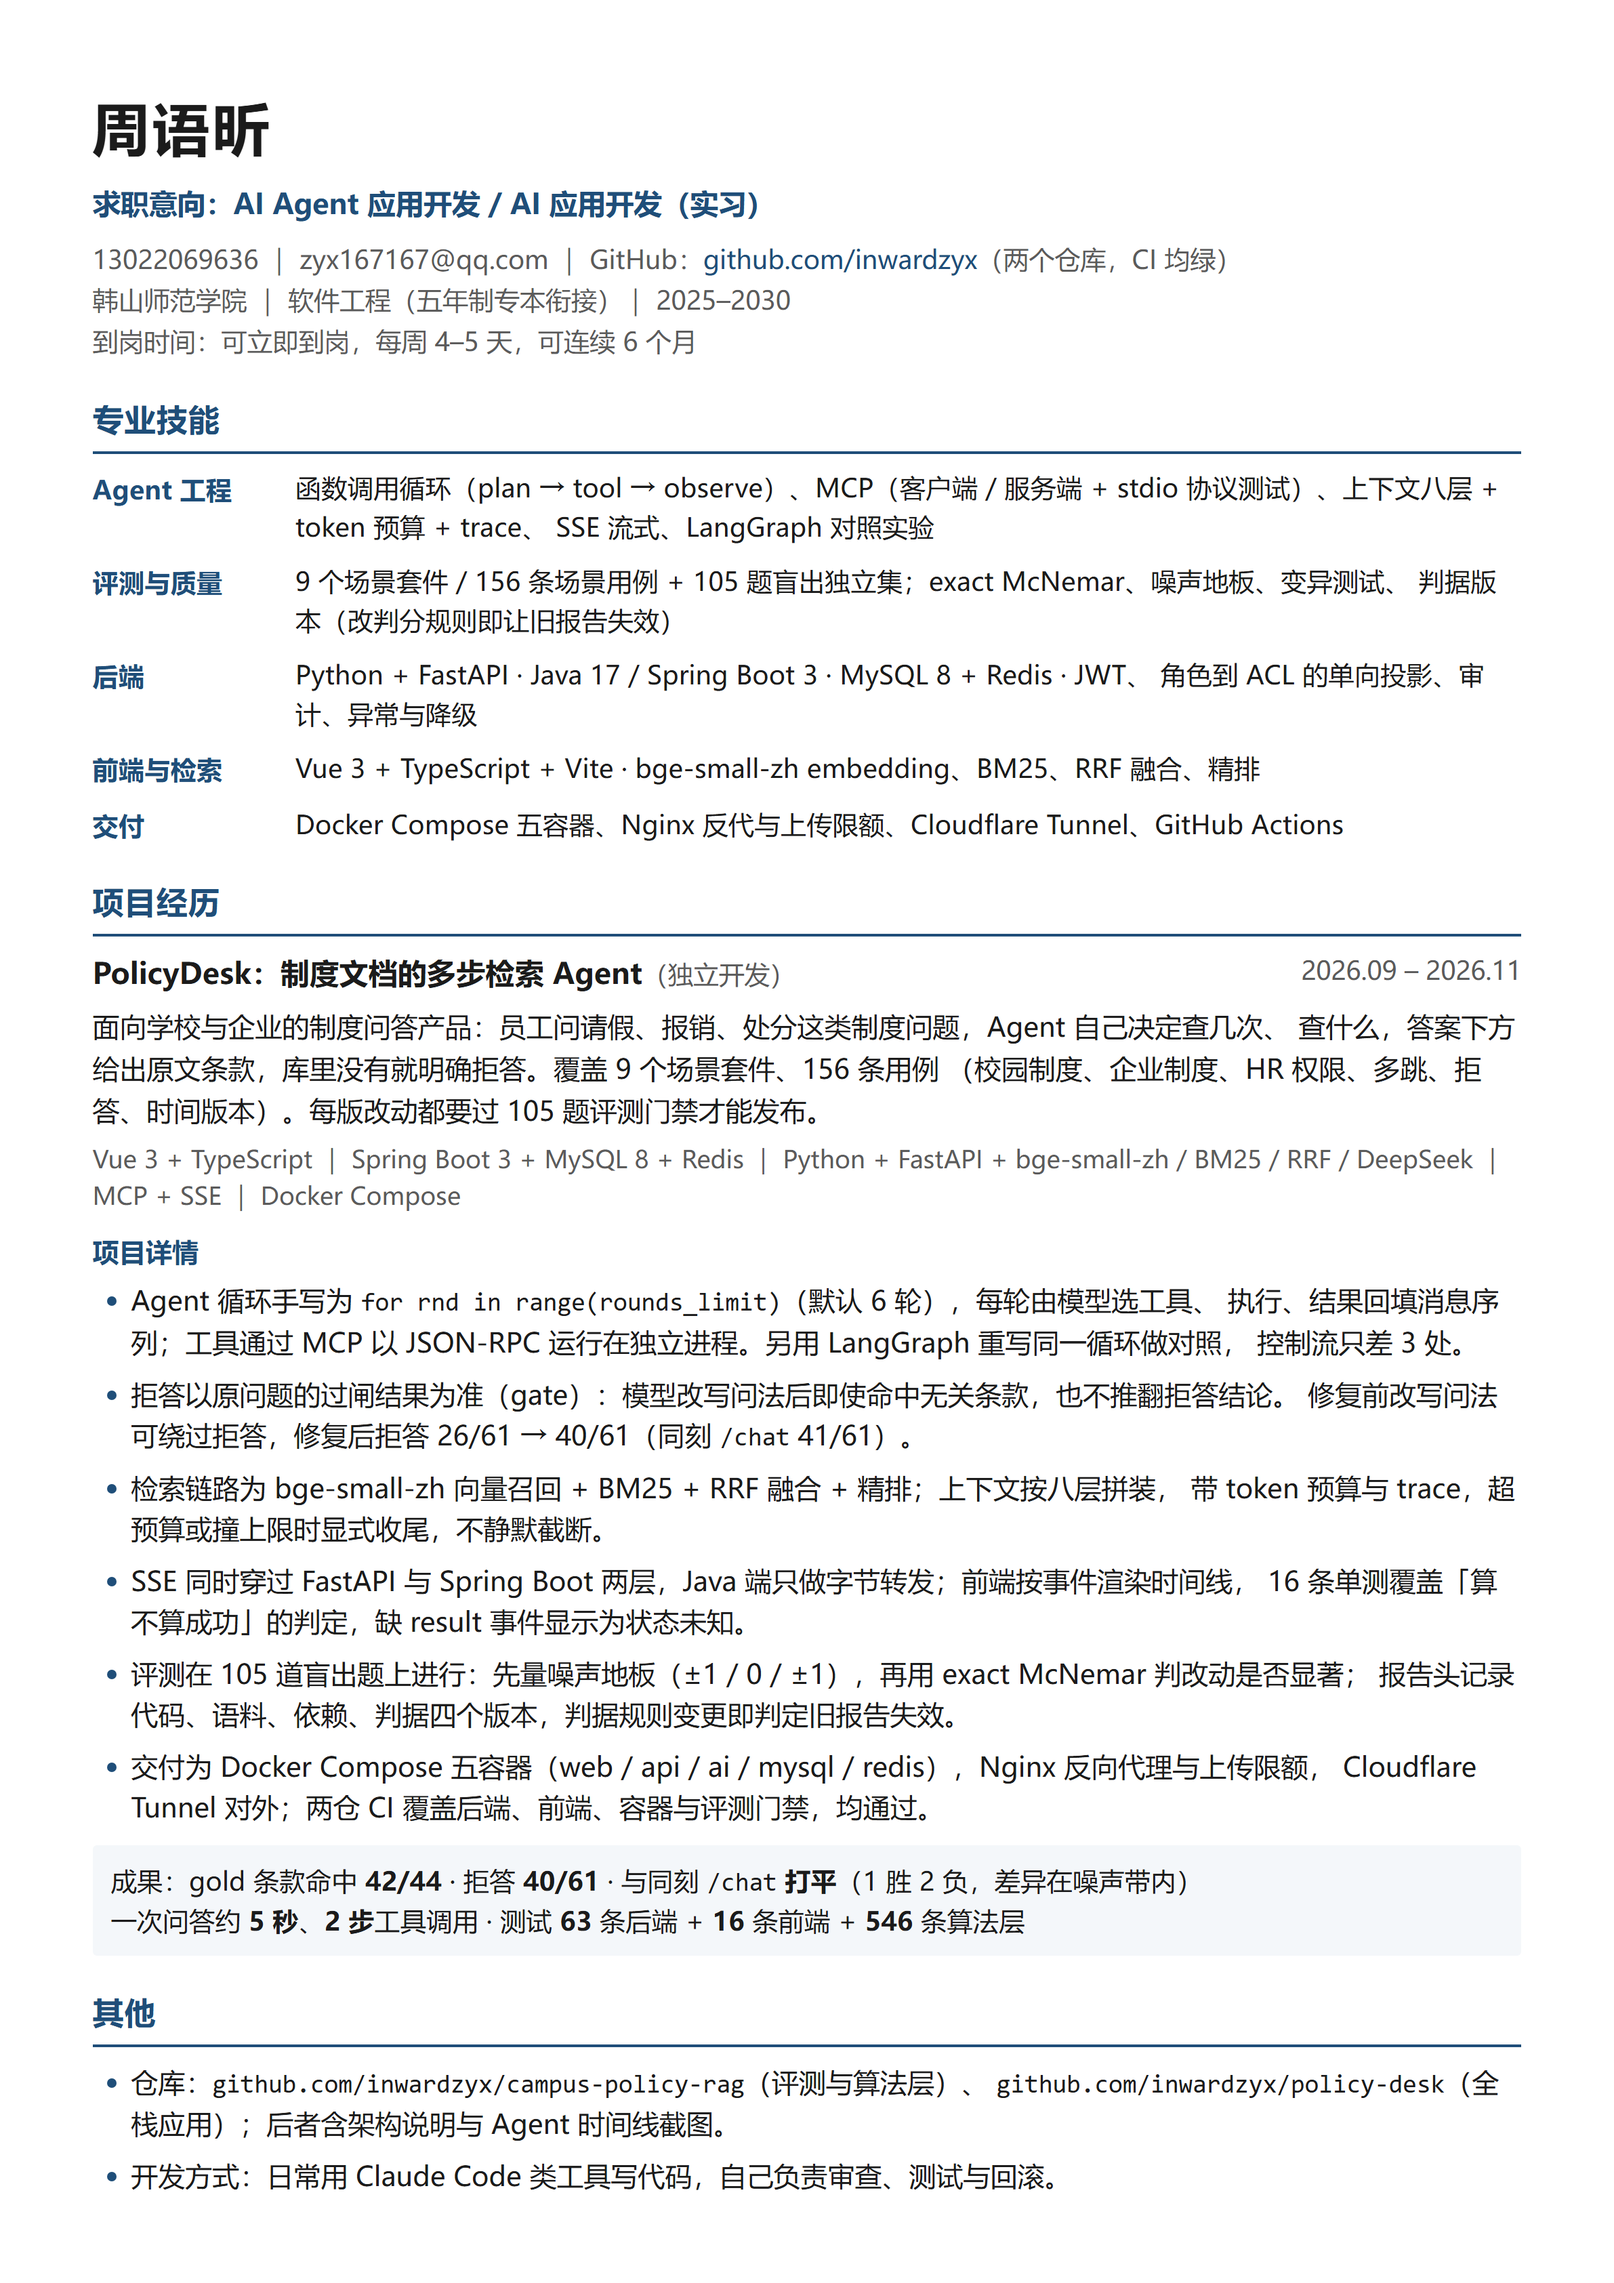
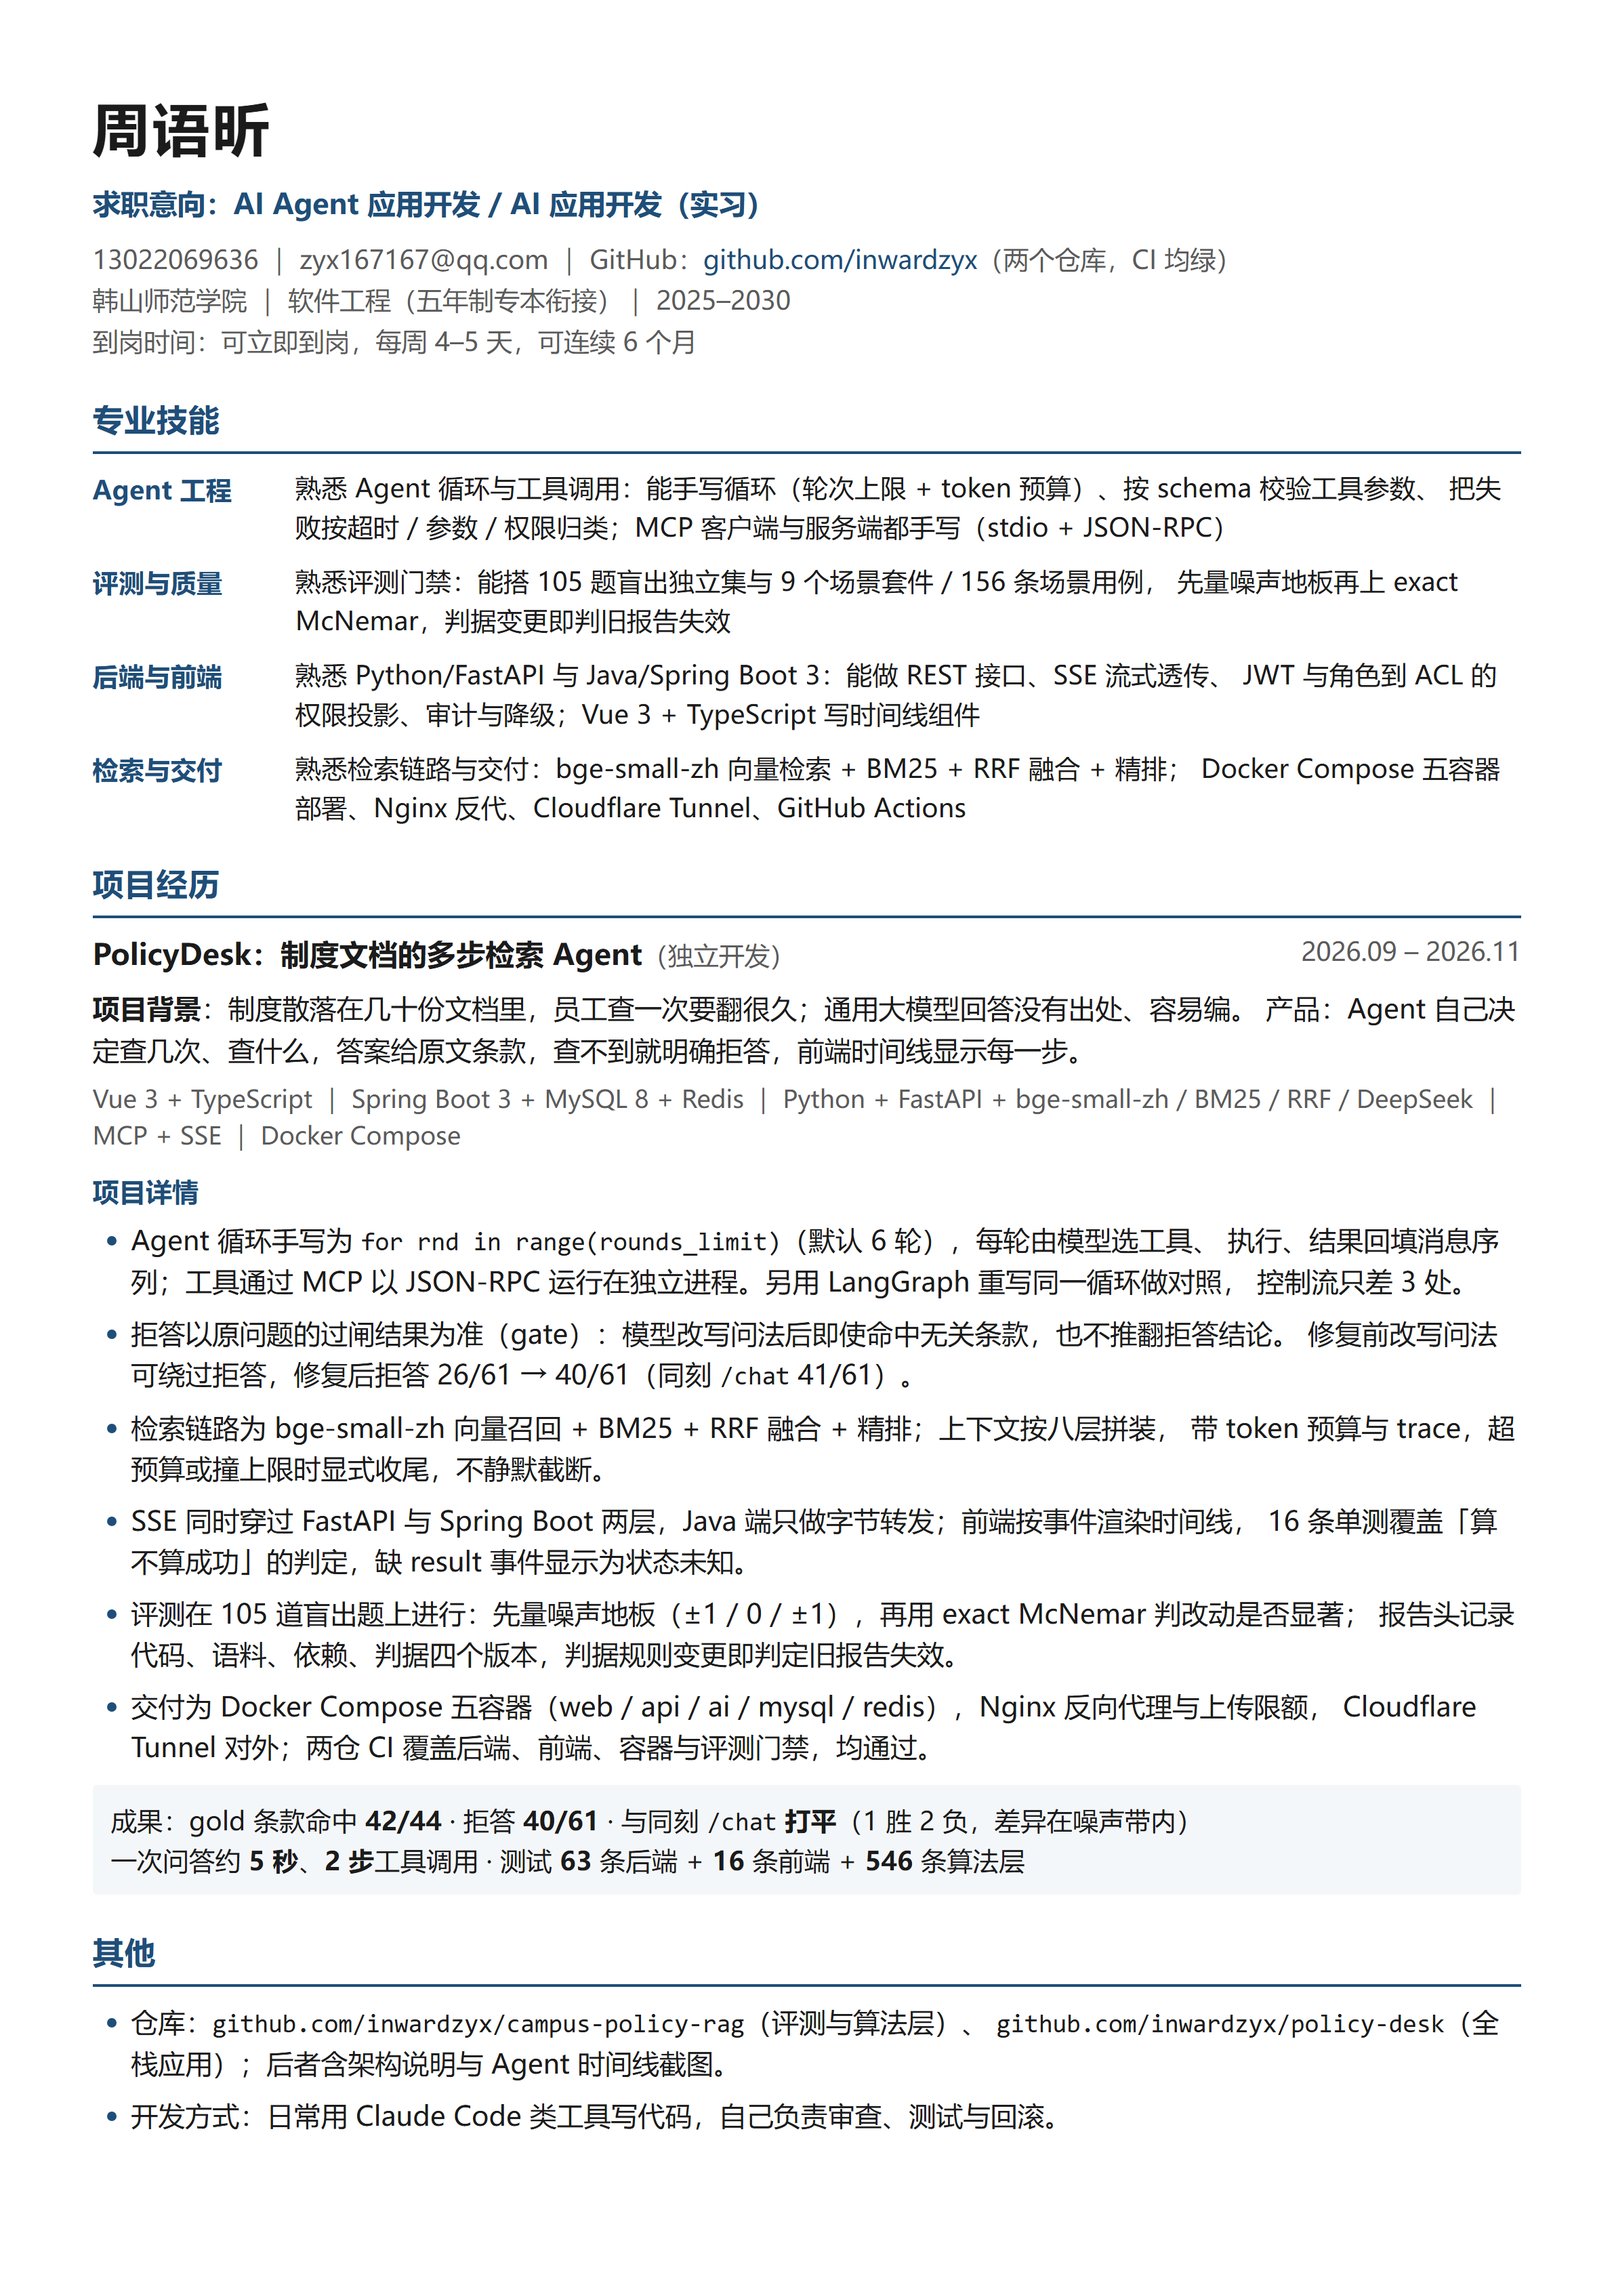
docs(resume): 技能栏改「熟悉 X，能做 Y」，项目补「项目背景」
按培训班标准里唯二可迁移的两条改（其余是编年限/挑公司/编数据量，不能学）：
- 技能栏：名词罗列 → 「熟悉 X：能做 Y」。例：
  「熟悉 Agent 循环与工具调用：能手写循环（轮次上限 + token 预算）、按 schema 校验工具参数、
   把失败按超时/参数/权限归类；MCP 客户端与服务端都手写」
- 项目简介首句改成「项目背景」：制度散落在几十份文档里，员工查一次要翻很久；
  通用大模型回答没有出处、容易编。然后才是产品做什么。
- 仍是一页；check_resume_numbers.py ✓（105 题盲出独立集 / 9 套件 / 156 用例的说法保留可核对）

Changed region(s): [[0.0621, 0.2805, 0.932, 0.9662], [0.1864, 0.187, 0.932, 0.374], [0.7767, 0.3428, 0.8077, 0.374]]

diff --git a/docs/resume-final-img.html b/docs/resume-final-img.html
@@ -82,31 +82,28 @@
 <h2>专业技能</h2>
 <div class="skills">
   <div class="k">Agent 工程</div>
-  <div>函数调用循环（plan → tool → observe）、MCP（客户端 / 服务端 + stdio 协议测试）、上下文八层 + token 预算 + trace、
-    SSE 流式、LangGraph 对照实验</div>
+  <div>熟悉 Agent 循环与工具调用：能手写循环（轮次上限 + token 预算）、按 schema 校验工具参数、
+    把失败按超时 / 参数 / 权限归类；MCP 客户端与服务端都手写（stdio + JSON-RPC）</div>
 
   <div class="k">评测与质量</div>
-  <div>9 个场景套件 / 156 条场景用例 + 105 题盲出独立集；exact McNemar、噪声地板、变异测试、
-    判据版本（改判分规则即让旧报告失效）</div>
+  <div>熟悉评测门禁：能搭 105 题盲出独立集与 9 个场景套件 / 156 条场景用例，
+    先量噪声地板再上 exact McNemar，判据变更即判旧报告失效</div>
 
-  <div class="k">后端</div>
-  <div>Python + FastAPI · Java 17 / Spring Boot 3 · MySQL 8 + Redis · JWT、
-    角色到 ACL 的单向投影、审计、异常与降级</div>
+  <div class="k">后端与前端</div>
+  <div>熟悉 Python/FastAPI 与 Java/Spring Boot 3：能做 REST 接口、SSE 流式透传、
+    JWT 与角色到 ACL 的权限投影、审计与降级；Vue 3 + TypeScript 写时间线组件</div>
 
-  <div class="k">前端与检索</div>
-  <div>Vue 3 + TypeScript + Vite · bge-small-zh embedding、BM25、RRF 融合、精排</div>
-
-  <div class="k">交付</div>
-  <div>Docker Compose 五容器、Nginx 反代与上传限额、Cloudflare Tunnel、GitHub Actions</div>
+  <div class="k">检索与交付</div>
+  <div>熟悉检索链路与交付：bge-small-zh 向量检索 + BM25 + RRF 融合 + 精排；
+    Docker Compose 五容器部署、Nginx 反代、Cloudflare Tunnel、GitHub Actions</div>
 </div>
 
 <h2>项目经历</h2>
 
 <h3>PolicyDesk：制度文档的多步检索 Agent<span class="role">（独立开发）</span><span class="when">2026.09 – 2026.11</span></h3>
 <div class="desc">
-  面向学校与企业的制度问答产品：员工问请假、报销、处分这类制度问题，Agent 自己决定查几次、
-  查什么，答案下方给出原文条款，库里没有就明确拒答。覆盖 9 个场景套件、156 条用例
-  （校园制度、企业制度、HR 权限、多跳、拒答、时间版本）。每版改动都要过 105 题评测门禁才能发布。
+  <b>项目背景</b>：制度散落在几十份文档里，员工查一次要翻很久；通用大模型回答没有出处、容易编。
+  产品：Agent 自己决定查几次、查什么，答案给原文条款，查不到就明确拒答，前端时间线显示每一步。
 </div>
 <div class="stack">
   Vue 3 + TypeScript ｜ Spring Boot 3 + MySQL 8 + Redis ｜ Python + FastAPI + bge-small-zh / BM25 / RRF / DeepSeek ｜ MCP + SSE ｜ Docker Compose

diff --git a/docs/resume-final.html b/docs/resume-final.html
@@ -81,31 +81,28 @@
 <h2>专业技能</h2>
 <div class="skills">
   <div class="k">Agent 工程</div>
-  <div>函数调用循环（plan → tool → observe）、MCP（客户端 / 服务端 + stdio 协议测试）、上下文八层 + token 预算 + trace、
-    SSE 流式、LangGraph 对照实验</div>
+  <div>熟悉 Agent 循环与工具调用：能手写循环（轮次上限 + token 预算）、按 schema 校验工具参数、
+    把失败按超时 / 参数 / 权限归类；MCP 客户端与服务端都手写（stdio + JSON-RPC）</div>
 
   <div class="k">评测与质量</div>
-  <div>9 个场景套件 / 156 条场景用例 + 105 题盲出独立集；exact McNemar、噪声地板、变异测试、
-    判据版本（改判分规则即让旧报告失效）</div>
+  <div>熟悉评测门禁：能搭 105 题盲出独立集与 9 个场景套件 / 156 条场景用例，
+    先量噪声地板再上 exact McNemar，判据变更即判旧报告失效</div>
 
-  <div class="k">后端</div>
-  <div>Python + FastAPI · Java 17 / Spring Boot 3 · MySQL 8 + Redis · JWT、
-    角色到 ACL 的单向投影、审计、异常与降级</div>
+  <div class="k">后端与前端</div>
+  <div>熟悉 Python/FastAPI 与 Java/Spring Boot 3：能做 REST 接口、SSE 流式透传、
+    JWT 与角色到 ACL 的权限投影、审计与降级；Vue 3 + TypeScript 写时间线组件</div>
 
-  <div class="k">前端与检索</div>
-  <div>Vue 3 + TypeScript + Vite · bge-small-zh embedding、BM25、RRF 融合、精排</div>
-
-  <div class="k">交付</div>
-  <div>Docker Compose 五容器、Nginx 反代与上传限额、Cloudflare Tunnel、GitHub Actions</div>
+  <div class="k">检索与交付</div>
+  <div>熟悉检索链路与交付：bge-small-zh 向量检索 + BM25 + RRF 融合 + 精排；
+    Docker Compose 五容器部署、Nginx 反代、Cloudflare Tunnel、GitHub Actions</div>
 </div>
 
 <h2>项目经历</h2>
 
 <h3>PolicyDesk：制度文档的多步检索 Agent<span class="role">（独立开发）</span><span class="when">2026.09 – 2026.11</span></h3>
 <div class="desc">
-  面向学校与企业的制度问答产品：员工问请假、报销、处分这类制度问题，Agent 自己决定查几次、
-  查什么，答案下方给出原文条款，库里没有就明确拒答。覆盖 9 个场景套件、156 条用例
-  （校园制度、企业制度、HR 权限、多跳、拒答、时间版本）。每版改动都要过 105 题评测门禁才能发布。
+  <b>项目背景</b>：制度散落在几十份文档里，员工查一次要翻很久；通用大模型回答没有出处、容易编。
+  产品：Agent 自己决定查几次、查什么，答案给原文条款，查不到就明确拒答，前端时间线显示每一步。
 </div>
 <div class="stack">
   Vue 3 + TypeScript ｜ Spring Boot 3 + MySQL 8 + Redis ｜ Python + FastAPI + bge-small-zh / BM25 / RRF / DeepSeek ｜ MCP + SSE ｜ Docker Compose
